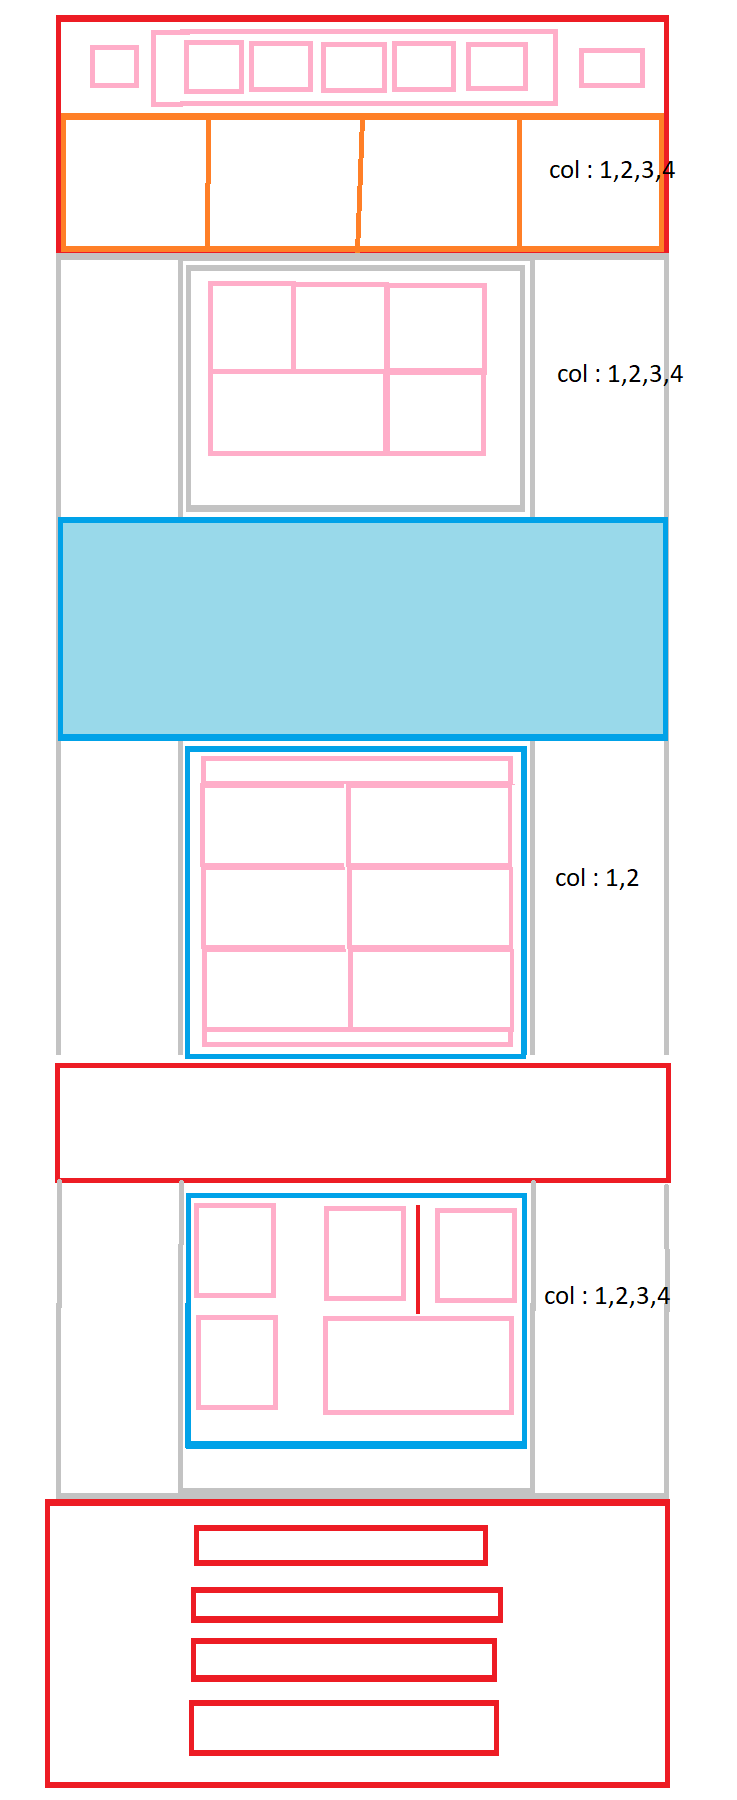
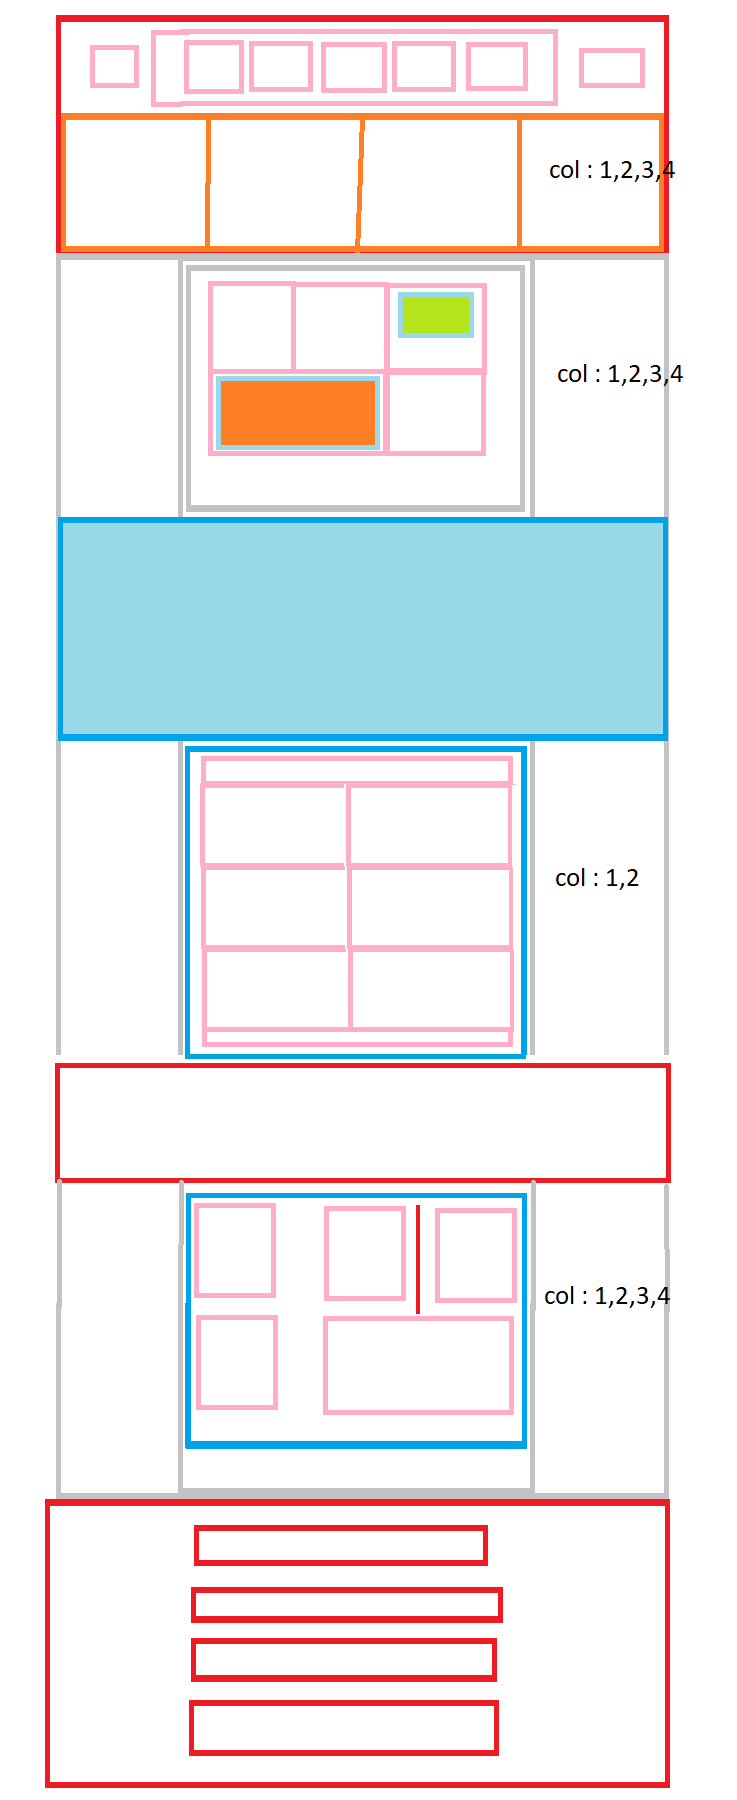
Add curated-posts using percentage width

Changed region(s): [[0.2809, 0.1867, 0.5305, 0.2489], [0.5305, 0.1556, 0.6554, 0.1867]]

diff --git a/assets/css/style.css b/assets/css/style.css
@@ -67,21 +67,35 @@ main {
   flex-wrap: wrap;
 }
 
-#latest-posts .b-box {
+#latest-posts .col-1 {
   width: 33.33%;
   height: 500px;
-  background: #cce;
+  background-color: #aff;
+}
+
+#latest-posts .col-1:nth-child(2n) {
+  background-color: #afa;
+}
+
+#latest-posts .col-1:nth-child(3n) {
+  background-color: #a5a;
+}
+
+#latest-posts .col-1-2 {
+  width: 66.66%;
+  height: 500px;
+  background-color: #aff;
 }
 
 #latest-posts .ad-small {
-  width: 33.33%;
-  background: #ccb;
-  height: 500px;
+  width: 100%;
+  background: #55e;
+  height: 300px;
 }
 
 #latest-posts .ad-medium {
-  width: 66.66%;
-  background: #ccb;
+  width: 100%;
+  background: #fae;
   height: 500px;
 }
 
@@ -95,4 +109,92 @@ main {
 }
 
 #community-links {
+  height: 100px;
+  width: 100%;
+  background-color: yellow;
+}
+
+#curated-posts {
+  background-color: #ee9;
+}
+#curated-posts > * {
+  display: inline-block;
+  height: 100px;
+}
+#curated-posts .guide:nth-child(4n-3) {
+  background-color: #5ff;
+}
+#curated-posts .guide:nth-child(4n-2) {
+  background-color: #aff;
+}
+#curated-posts .guide:nth-child(4n-1) {
+  background-color: #ffa;
+}
+#curated-posts .guide:nth-child(4n) {
+  background-color: #ff5;
+}
+#curated-posts .col-1-4 {
+  background-color: #99f;
+}
+
+
+@media only screen and (min-width: 480px){
+  #curated-posts .col-1 {
+    width:100%;
+  }
+  #curated-posts .col-1-4 {
+    width: 100%;
+  }
+}
+
+@media only screen and (min-width: 860px){
+  #curated-posts .col-1 {
+    width:49%;
+  }
+  #curated-posts .col-1-4 {
+    width: calc(49%*2);
+  }
+}
+
+@media only screen and (min-width: 1080px){
+  #curated-posts .col-1 {
+    width:33%;
+  }
+  #curated-posts .col-1-4 {
+    width: calc(33%*3);
+  }
+}
+
+@media only screen and (min-width: 1440px){
+  #curated-posts .col-1 {
+    width:24%;
+  }
+  #curated-posts .col-1-4 {
+    width: calc(24%*4);
+  }
+}
+/*
+@media only screen and (min-width: 1640px){
+  #curated-posts .col-1 {
+    width:24%;
+  }
+  #curated-posts .col-1-4 {
+    width: calc(24%*4);
+  }
+}
+
+@media only screen and (min-width: 1840px){
+  #curated-posts .col-1 {
+    width:24%;
+  }
+  #curated-posts .col-1-4 {
+    width: calc(24%*4);
+  }
+}
+*/
+
+footer {
+  width: 100%;
+  height: 100px;
+  background-color: #999;
 }

diff --git a/index.html b/index.html
@@ -40,33 +40,37 @@
     </header>
     <main>
       <div id="latest-posts">
-        <div class="b-box">
+        <div class="col-1">
           latest-posts-1
         </div>
-        <div class="b-box">
+        <div class="col-1">
           latest-posts-2
         </div>
-        <div class="b-box">
+        <div class="col-1">
           latest-posts-3
         </div>
-        <div class="ad-small">
-          small ad
+        <div class="col-1">
+          <div class="ad-small">
+            small ad
+          </div>
         </div>
 
-        <div id="" class="ad-medium">
-          medium ad
+        <div class="col-1-2">
+          <div id="" class="ad-medium">
+            medium ad
+          </div>
         </div>
 
-        <div class="b-box">
+        <div class="col-1">
           latest-posts-4
         </div>
-        <div class="b-box">
+        <div class="col-1">
           latest-posts-5
         </div>
-        <div class="b-box">
+        <div class="col-1">
           latest-posts-6
         </div>
-        <div class="b-box">
+        <div class="col-1">
           latest-posts-7
         </div>
       </div>
@@ -75,15 +79,20 @@
       </div>
       <div id="community-links"></div>
       <div class="block-ad-2">
-        it is ad
+        <p class="f-m">It is first</p>
+        <p class="f-s">It is second</p>
+        <p class="f-xs">It is third</p>
       </div>
       <div id="curated-posts">
-        <div class="guide"></div>
-        <div class="guide"></div>
-        <div class="guide"></div>
-        <div></div>
+        <div class="col-1 guide">It is 1st</div>
+        <div class="col-1 guide">It is 2nd</div>
+        <div class="col-1 guide">It is 3rd</div>
+        <div class="col-1 guide">It is 4th</div>
+        <div class="col-1-4">
+          <div class="ad-large">This is ad</div>
+        </div>
       </div>
     </main>
-    <footer></footer>
+    <footer>This is footer</footer>
   </body>
 </html>
